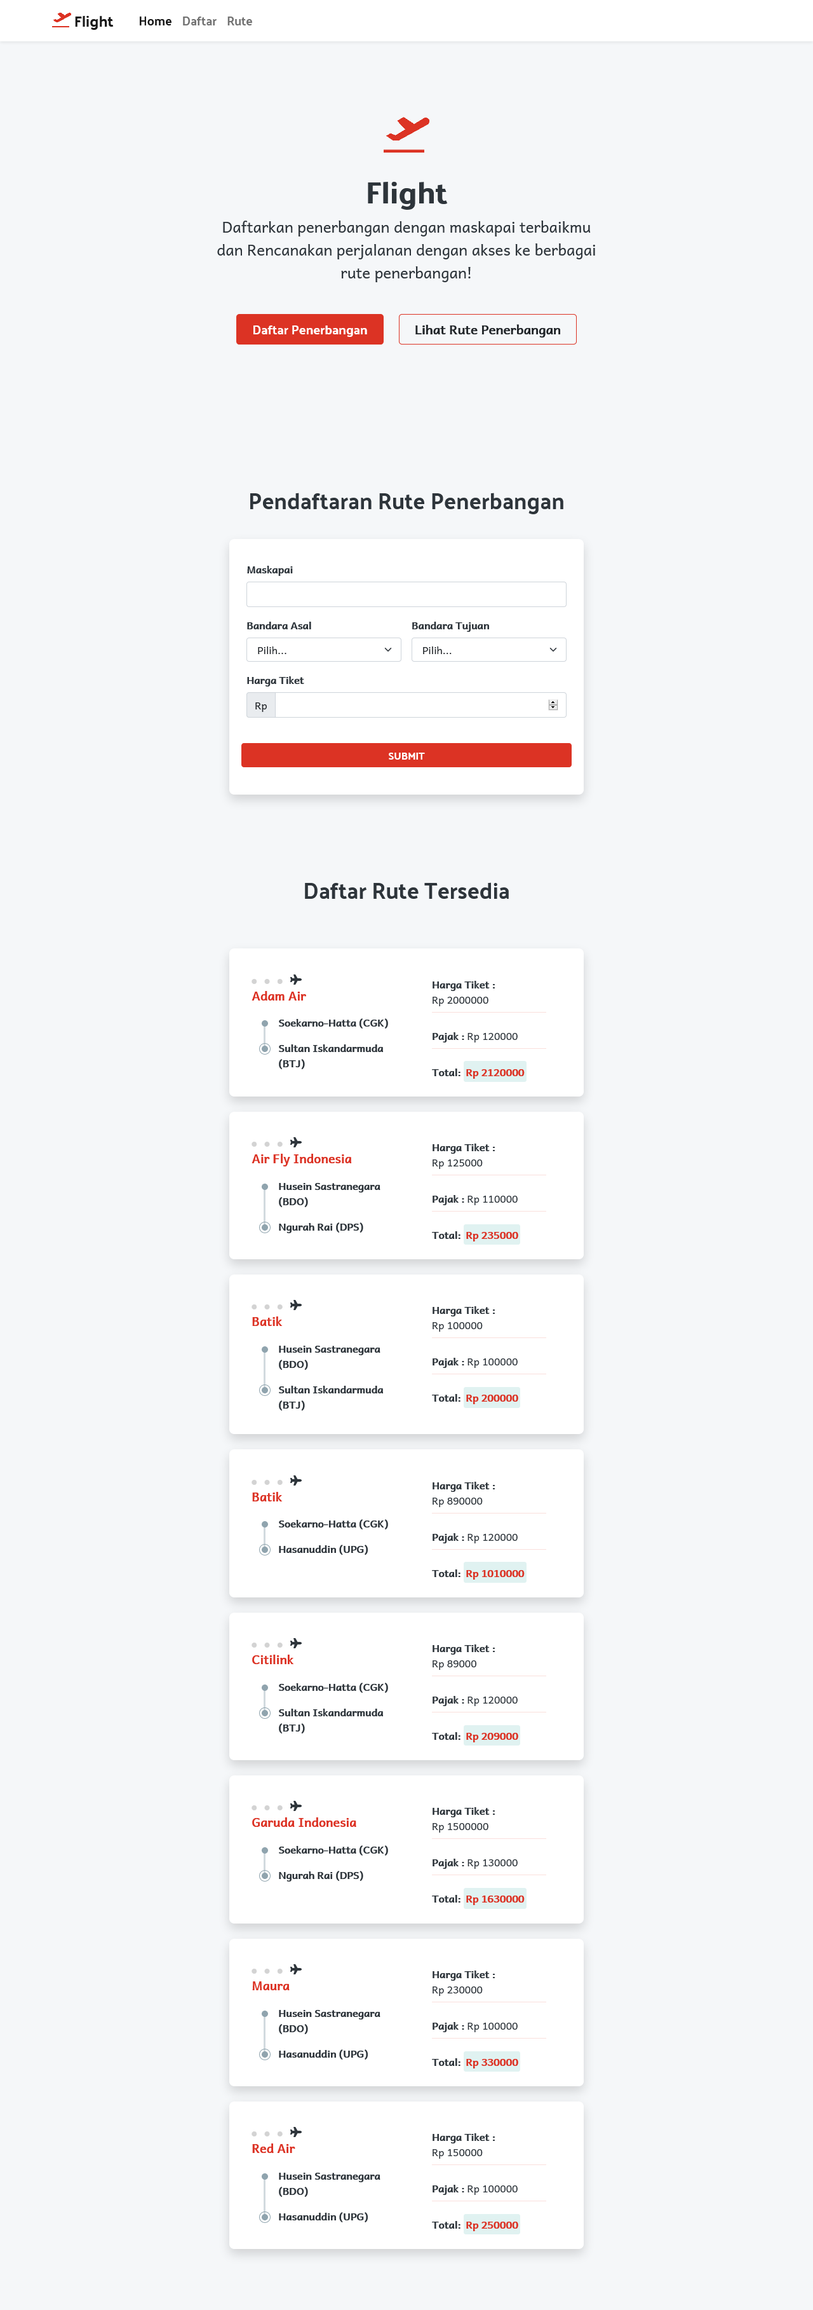
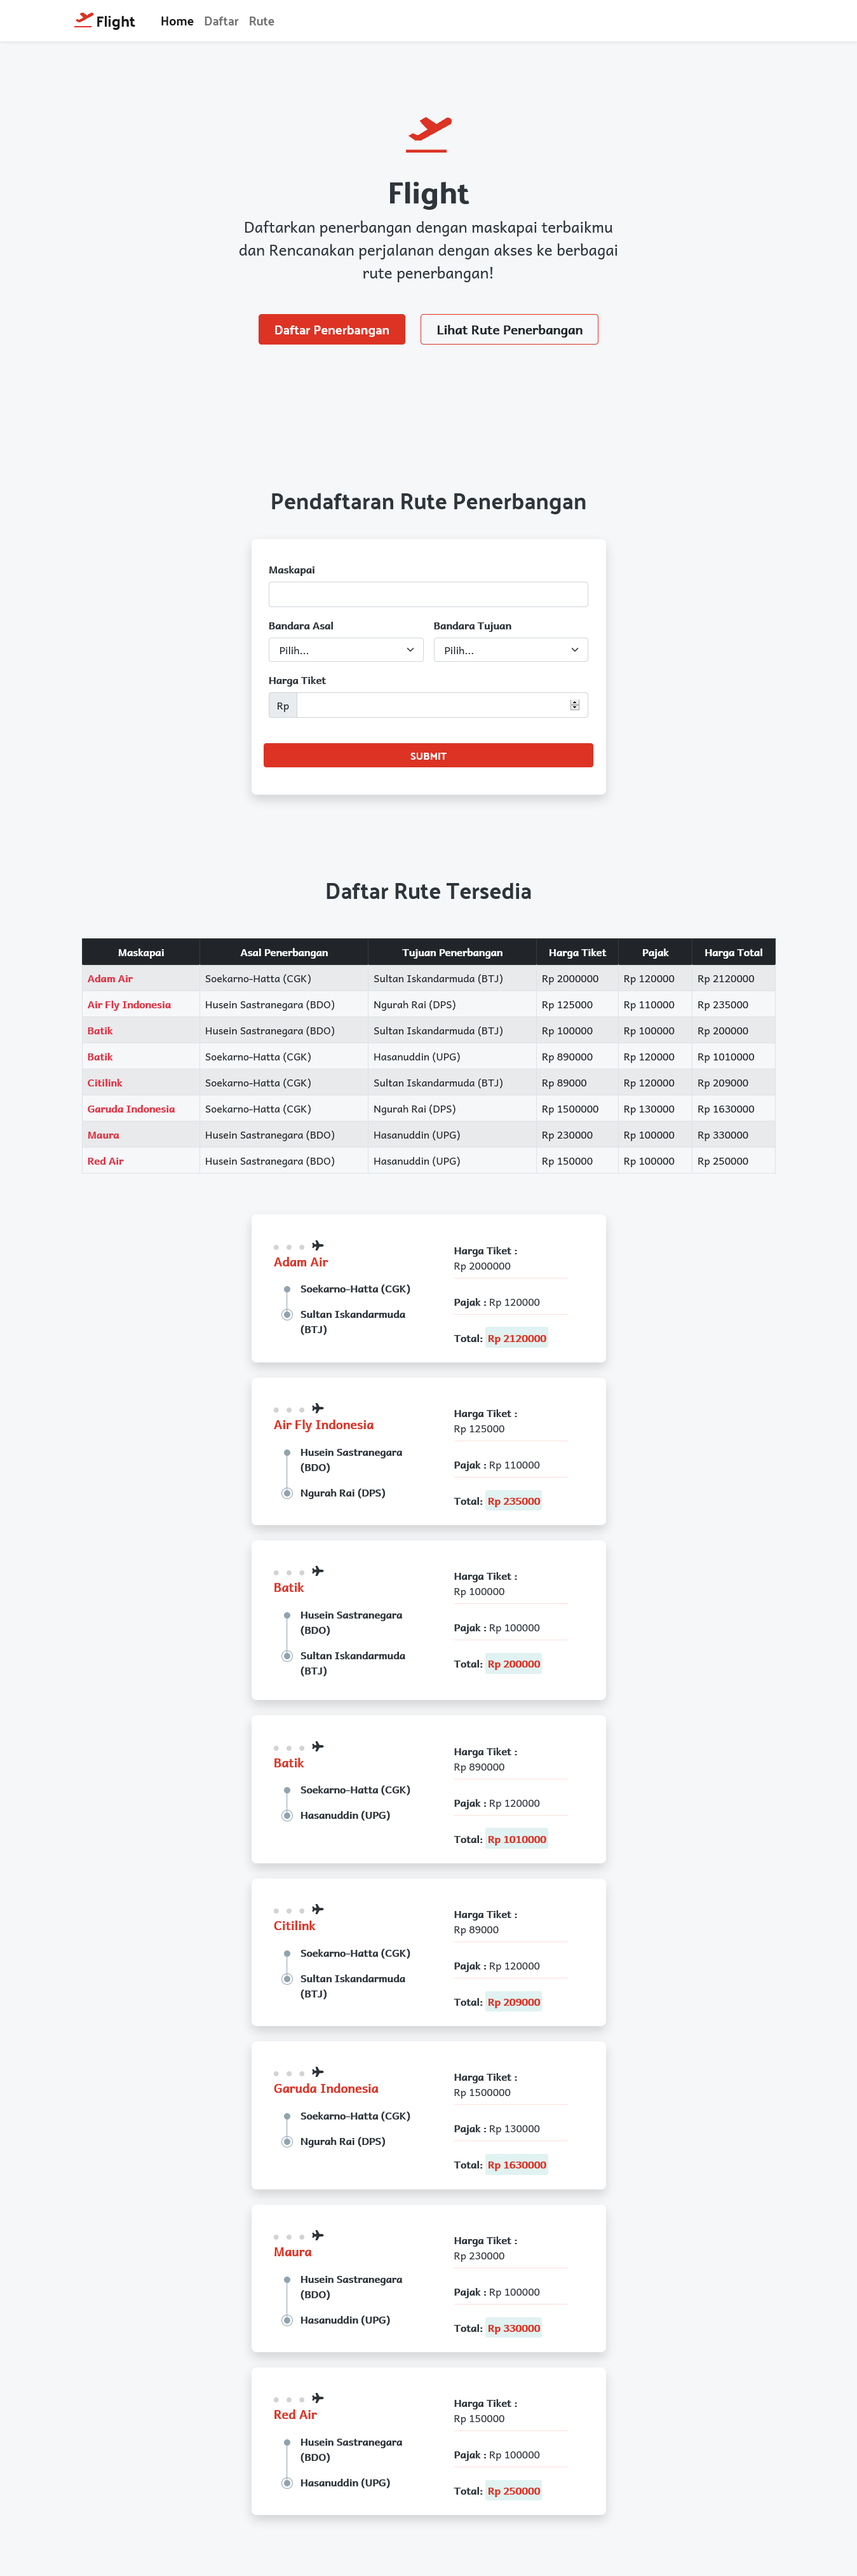
update img and readme

Changed region(s): [[0.0938, 0.1866, 0.9062, 0.995], [0.2812, 0.0311, 0.7188, 0.1555], [0.0938, 0.0, 0.125, 0.0311]]

diff --git a/README.md b/README.md
@@ -63,7 +63,7 @@ Run your application using Web Server (XAMPP) and Web Browser (Chrome/Firefox/et
 
 1. Pada halaman utama klik tombol daftar penerbangan jika ingin menambah rute atau klik lihat rute penerbangan untuk menampilkan daftar rute tersedia.
 2. Isi form tambah rute penerbangan, klik submit, data akan tersimpan dan muncul notifikasi jika sudah berhasil.
-3. Hasil rute akan menampilkan rute penerbangan yang tersedia sesuai dengan nama maskapai berurutkan abjad.
+3. Hasil rute akan menampilkan rute penerbangan yang tersedia sesuai dengan nama maskapai berurutkan abjad. (bisa dilihat melalui tabel maupun dari container dibawahnya)
 
 <img src="https://github.com/mauraqoonitah/flightApp/blob/master/Screenshot_FlightApp.png" width="800">
 
